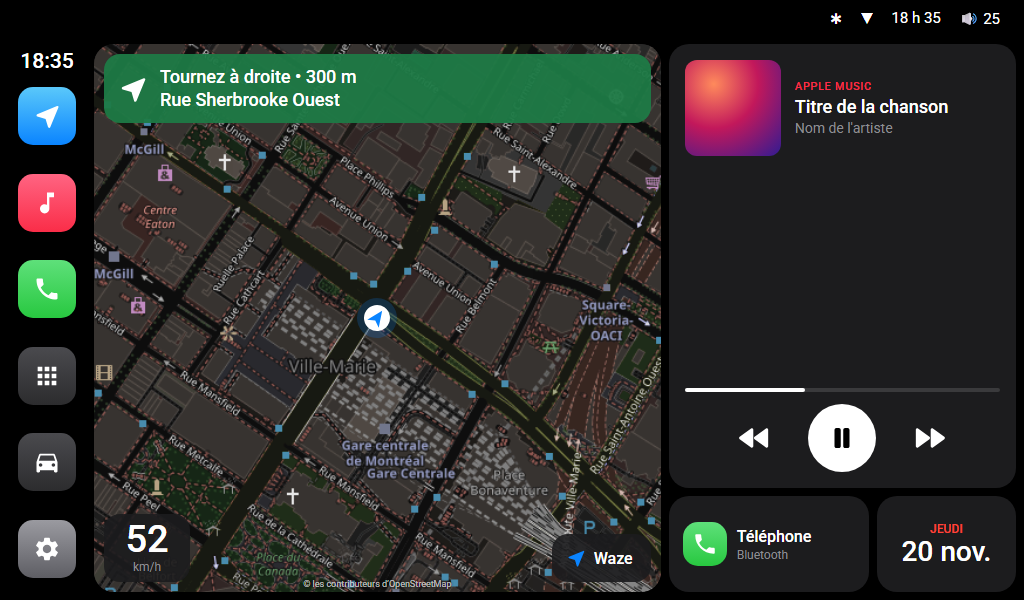
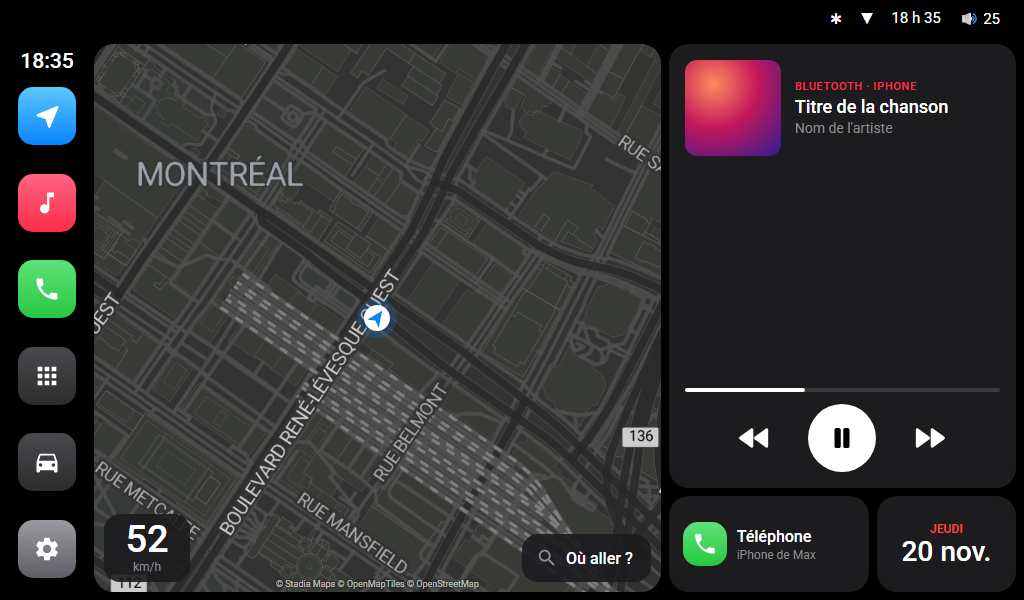
Maquettes : navigation, recherche, appel, téléphone

Changed region(s): [[0.0938, 0.06, 0.6562, 0.99], [0.7812, 0.12, 0.9062, 0.15], [0.7188, 0.9, 0.8125, 0.93]]

diff --git a/docs/preview/home.html b/docs/preview/home.html
@@ -100,6 +100,56 @@
   .icon { width: 62px; height: 62px; border-radius: 16px; display: flex; align-items: center; justify-content: center; font-size: 26px; font-weight: 500; color: #fff; }
   .app span { font-size: 13px; margin-top: 8px; }
 
+  /* ---- Navigation ---- */
+  .navbar { position: absolute; left: 106px; right: 10px; bottom: 10px; height: 56px; display: flex; align-items: center; gap: 6px; padding: 0 6px 0 16px; }
+  .navbar .eta { flex: 1; font-size: 16px; font-weight: 500; white-space: nowrap; overflow: hidden; text-overflow: ellipsis; }
+  .navbar .stop { background: #FF453A; border-radius: 22px; padding: 12px 16px; font-size: 15px; }
+  .searchpanel { position: absolute; inset: 0; background: rgba(28,28,30,.95); padding: 12px; }
+  .sbar { display: flex; gap: 8px; height: 52px; }
+  .sinput { flex: 1; background: #2C2C2E; border-radius: 14px; display: flex; align-items: center; gap: 10px; padding-left: 14px; font-size: 18px; }
+  .sinput svg { width: 22px; height: 22px; fill: #8E8E93; }
+  .caret { display: inline-block; width: 2px; height: 22px; background: #0A84FF; margin-left: 2px; vertical-align: middle; }
+  .sclose { width: 52px; border-radius: 50%; background: #2C2C2E; display: flex; align-items: center; justify-content: center; font-size: 20px; }
+  .shint { font-size: 12px; color: #8E8E93; text-transform: uppercase; padding: 12px 6px 4px; }
+  .place { height: 64px; display: flex; align-items: center; gap: 12px; padding: 0 6px; }
+  .place .pi { width: 40px; height: 40px; border-radius: 12px; background: linear-gradient(#5AC8FA, #0A84FF); display: flex; align-items: center; justify-content: center; flex: none; }
+  .place .pi svg { width: 22px; height: 22px; fill: #fff; }
+  .place .pn { font-size: 17px; font-weight: 500; }
+  .place .pl { font-size: 13px; color: #8E8E93; margin-top: 2px; white-space: nowrap; overflow: hidden; text-overflow: ellipsis; }
+  .place .chip { font-size: 14px; padding: 10px 12px; margin-left: auto; flex: none; }
+
+  /* ---- Appel ---- */
+  .call { background: #000; padding: 60px 24px 24px; }
+  .call .who, .call .ctl { flex: 1; display: flex; flex-direction: column; align-items: center; justify-content: center; }
+  .avatar { width: 132px; height: 132px; border-radius: 50%; background: linear-gradient(#8E8E93, #48484A); display: flex; align-items: center; justify-content: center; font-size: 54px; font-weight: 500; }
+  .call .cn { font-size: 34px; font-weight: 500; margin-top: 22px; }
+  .call .cnum { font-size: 18px; color: #8E8E93; margin-top: 4px; }
+  .call .cst { font-size: 20px; font-weight: 500; color: #30D158; margin-top: 10px; }
+  .round { border-radius: 50%; display: flex; align-items: center; justify-content: center; }
+  .round svg { fill: #fff; }
+  .clabel { font-size: 15px; color: #8E8E93; margin-top: 10px; text-align: center; }
+  .crow { display: flex; gap: 40px; align-items: flex-start; }
+
+  /* ---- Téléphone ---- */
+  .phonescr { background: #000; padding: 48px 20px 12px; flex-direction: column; }
+  .phonescr .head { height: 52px; display: flex; align-items: center; gap: 16px; }
+  .phonescr .head h1 { font-size: 24px; font-weight: 500; }
+  .phonescr .head .st { flex: 1; font-size: 14px; color: #8E8E93; }
+  .pcols { flex: 1; display: flex; gap: 12px; margin-top: 8px; min-height: 0; }
+  .pad { flex: 46; background: #1C1C1E; border-radius: 20px; padding: 12px; display: flex; flex-direction: column; align-items: center; }
+  .num { height: 52px; width: 100%; display: flex; align-items: center; justify-content: center; font-size: 30px; font-weight: 300; position: relative; }
+  .num .bs { position: absolute; right: 4px; width: 44px; height: 44px; display: flex; align-items: center; justify-content: center; }
+  .keys { display: grid; grid-template-columns: repeat(3, 62px); gap: 8px 22px; margin-top: 6px; }
+  .key { width: 62px; height: 62px; border-radius: 50%; background: #2C2C2E; display: flex; flex-direction: column; align-items: center; justify-content: center; font-size: 26px; line-height: 1; }
+  .key small { font-size: 9px; color: #8E8E93; letter-spacing: .08em; margin-top: 2px; }
+  .contacts { flex: 54; background: #1C1C1E; border-radius: 20px; padding: 12px; overflow: hidden; }
+  .crow2 { height: 64px; display: flex; align-items: center; gap: 12px; padding: 0 8px; }
+  .crow2 .av { width: 44px; height: 44px; border-radius: 50%; background: linear-gradient(#8E8E93, #48484A); display: flex; align-items: center; justify-content: center; font-size: 18px; font-weight: 500; flex: none; }
+  .crow2 .cn2 { font-size: 17px; font-weight: 500; }
+  .crow2 .cp { font-size: 13px; color: #8E8E93; margin-top: 2px; }
+  .crow2 .go { width: 40px; height: 40px; border-radius: 50%; background: #30D158; margin-left: auto; display: flex; align-items: center; justify-content: center; }
+  .crow2 .go svg { width: 22px; height: 22px; fill: #fff; }
+
   .plist { max-height: 380px; overflow: hidden; }
   .pitem { height: 60px; display: flex; align-items: center; gap: 14px; padding: 0 16px; }
   .pitem.sel { background: rgba(255,255,255,.08); border-radius: 12px; }
@@ -126,14 +176,28 @@
 
   <div class="map" id="map">
     <div class="tiles" id="tiles"></div>
-    <svg class="car" viewBox="0 0 44 44"><path fill="#330A84FF" d="M22,2a20,20 0,1 1,0 40a20,20 0,1 1,0 -40z" style="fill:rgba(10,132,255,.2)"/><path fill="#fff" d="M22,9a13,13 0,1 1,0 26a13,13 0,1 1,0 -26z"/><path fill="#0A84FF" d="M22,13l7,16l-7,-4l-7,4z"/></svg>
-    <div class="banner">
-      <svg viewBox="0 0 24 24"><path d="M21.71,3.71a1,1 0,0 0,-1.08 -0.22l-17,7a1,1 0,0 0,0.1 1.88l7.06,2.1 2.1,7.06a1,1 0,0 0,0.93 0.71h0.03a1,1 0,0 0,0.92 -0.62l7,-17a1,1 0,0 0,-0.06 -0.91z"/></svg>
-      <div class="t">Tournez à droite • 300 m<br>Rue Sherbrooke Ouest</div>
+    <svg id="routeSvg" style="position:absolute;inset:0;width:100%;height:100%;pointer-events:none"></svg>
+    <svg class="car" id="car" viewBox="0 0 44 44"><path d="M22,2a20,20 0,1 1,0 40a20,20 0,1 1,0 -40z" style="fill:rgba(10,132,255,.2)"/><path fill="#fff" d="M22,9a13,13 0,1 1,0 26a13,13 0,1 1,0 -26z"/><path fill="#0A84FF" d="M22,13l7,16l-7,-4l-7,4z"/></svg>
+    <div class="banner" id="navBanner" style="display:none">
+      <div style="display:flex;flex-direction:column;align-items:center;min-width:64px">
+        <svg id="navArrow" viewBox="0 0 24 24" style="width:44px;height:44px"><path d="M12,2.5l7,8.2h-4.6V21.5h-4.8V10.7H5z"/></svg>
+        <div style="font-size:18px;font-weight:500">300 m</div>
+      </div>
+      <div class="t" style="font-size:20px">Prenez la sortie 136 Est sur la gauche vers Autoroute Ville-Marie.</div>
     </div>
     <div class="overlay speed"><div class="v">52</div><div class="u">km/h</div></div>
-    <div class="overlay waze"><svg viewBox="0 0 24 24"><path d="M21.71,3.71a1,1 0,0 0,-1.08 -0.22l-17,7a1,1 0,0 0,0.1 1.88l7.06,2.1 2.1,7.06a1,1 0,0 0,0.93 0.71h0.03a1,1 0,0 0,0.92 -0.62l7,-17a1,1 0,0 0,-0.06 -0.91z"/></svg>Waze</div>
-    <div class="attrib">© les contributeurs d’OpenStreetMap</div>
+    <div class="overlay waze" id="searchBtn"><svg viewBox="0 0 24 24" style="fill:#8E8E93;width:22px;height:22px"><path d="M15.5,14h-0.79l-0.28,-0.27C15.41,12.59 16,11.11 16,9.5 16,5.91 13.09,3 9.5,3S3,5.91 3,9.5 5.91,16 9.5,16c1.61,0 3.09,-0.59 4.23,-1.57l0.27,0.28v0.79l5,4.99L20.49,19l-4.99,-5zM9.5,14C7.01,14 5,11.99 5,9.5S7.01,5 9.5,5 14,7.01 14,9.5 11.99,14 9.5,14z"/></svg>Où aller ?</div>
+    <div class="overlay navbar" id="navBar" style="display:none">
+      <div class="eta">Arrivée 18:43 · 8 min · 3,1 km</div>
+      <div class="chip" style="font-size:15px;padding:12px 14px">Waze</div>
+      <div class="stop">Arrêter</div>
+    </div>
+    <div class="searchpanel" id="searchPanel" style="display:none">
+      <div class="sbar"><div class="sinput"><svg viewBox="0 0 24 24"><path d="M15.5,14h-0.79l-0.28,-0.27C15.41,12.59 16,11.11 16,9.5 16,5.91 13.09,3 9.5,3S3,5.91 3,9.5 5.91,16 9.5,16c1.61,0 3.09,-0.59 4.23,-1.57l0.27,0.28v0.79l5,4.99L20.49,19l-4.99,-5zM9.5,14C7.01,14 5,11.99 5,9.5S7.01,5 9.5,5 14,7.01 14,9.5 11.99,14 9.5,14z"/></svg><span>Vieux-Port<i class="caret"></i></span></div><div class="sclose">✕</div></div>
+      <div class="shint">Résultats</div>
+      <div id="places"></div>
+    </div>
+    <div class="attrib" id="attrib">© les contributeurs d’OpenStreetMap</div>
   </div>
 
   <div class="right">
@@ -141,7 +205,7 @@
       <div class="track">
         <div class="art"></div>
         <div class="meta">
-          <div class="src">Apple Music</div>
+          <div class="src">Bluetooth · iPhone</div>
           <div class="title">Titre de la chanson</div>
           <div class="artist">Nom de l'artiste</div>
         </div>
@@ -157,7 +221,7 @@
     <div class="bottom">
       <div class="card phonecard">
         <div class="tile phone ic"><svg viewBox="0 0 24 24"><path d="M6.62,10.79c1.44,2.83 3.76,5.14 6.59,6.59l2.2,-2.2c0.27,-0.27 0.67,-0.36 1.02,-0.24 1.12,0.37 2.33,0.57 3.57,0.57 0.55,0 1,0.45 1,1V20c0,0.55 -0.45,1 -1,1 -9.39,0 -17,-7.61 -17,-17 0,-0.55 0.45,-1 1,-1h3.5c0.55,0 1,0.45 1,1 0,1.25 0.2,2.45 0.57,3.57 0.11,0.35 0.03,0.74 -0.25,1.02l-2.2,2.2z"/></svg></div>
-        <div><div class="n">Téléphone</div><div class="s">Bluetooth</div></div>
+        <div><div class="n">Téléphone</div><div class="s">iPhone de Max</div></div>
       </div>
       <div class="card date"><div class="d">Jeudi</div><div class="n">20 nov.</div></div>
     </div>
@@ -196,22 +260,108 @@
   <div class="head"><h1>Applications</h1><div class="chip" style="font-size:16px;padding:11px 20px">Accueil</div></div>
   <div class="grid" id="grid"></div>
 </div>
+<!-- Appel entrant (s'ouvre tout seul) -->
+<div class="screen call" id="s-call">
+  <div class="who"><div class="avatar">J</div><div class="cn">Julie</div><div class="cnum">514 555-0142</div><div class="cst">Appel entrant…</div></div>
+  <div class="ctl"><div class="crow" style="gap:72px">
+    <div><div class="round" style="width:96px;height:96px;background:#FF453A"><svg viewBox="0 0 24 24" style="width:40px;height:40px"><path d="M12,9c-1.6,0 -3.15,0.25 -4.6,0.72v3.1c0,0.39 -0.23,0.74 -0.56,0.9 -0.98,0.49 -1.87,1.12 -2.66,1.85 -0.18,0.18 -0.43,0.28 -0.7,0.28 -0.28,0 -0.53,-0.11 -0.71,-0.29L0.29,13.08c-0.18,-0.17 -0.29,-0.42 -0.29,-0.7 0,-0.28 0.11,-0.53 0.29,-0.71C3.34,8.78 7.46,7 12,7s8.66,1.78 11.71,4.67c0.18,0.18 0.29,0.43 0.29,0.71 0,0.28 -0.11,0.53 -0.29,0.71l-2.48,2.48c-0.18,0.18 -0.43,0.29 -0.71,0.29 -0.27,0 -0.52,-0.11 -0.7,-0.28 -0.79,-0.74 -1.69,-1.36 -2.67,-1.85 -0.33,-0.16 -0.56,-0.5 -0.56,-0.9v-3.1C15.15,9.25 13.6,9 12,9z"/></svg></div><div class="clabel">Refuser</div></div>
+    <div><div class="round" style="width:96px;height:96px;background:#30D158"><svg viewBox="0 0 24 24" style="width:36px;height:36px"><path d="M6.62,10.79c1.44,2.83 3.76,5.14 6.59,6.59l2.2,-2.2c0.27,-0.27 0.67,-0.36 1.02,-0.24 1.12,0.37 2.33,0.57 3.57,0.57 0.55,0 1,0.45 1,1V20c0,0.55 -0.45,1 -1,1 -9.39,0 -17,-7.61 -17,-17 0,-0.55 0.45,-1 1,-1h3.5c0.55,0 1,0.45 1,1 0,1.25 0.2,2.45 0.57,3.57 0.11,0.35 0.03,0.74 -0.25,1.02l-2.2,2.2z"/></svg></div><div class="clabel">Répondre</div></div>
+  </div></div>
+</div>
+
+<!-- En appel -->
+<div class="screen call" id="s-incall">
+  <div class="who"><div class="avatar">J</div><div class="cn">Julie</div><div class="cnum">514 555-0142</div><div class="cst">2:14</div></div>
+  <div class="ctl">
+    <div class="crow">
+      <div><div class="round" style="width:84px;height:84px;background:#2C2C2E"><svg viewBox="0 0 24 24" style="width:32px;height:32px"><path d="M12,19c-1.1,0 -2,0.9 -2,2s0.9,2 2,2 2,-0.9 2,-2 -0.9,-2 -2,-2zM6,1c-1.1,0 -2,0.9 -2,2s0.9,2 2,2 2,-0.9 2,-2 -0.9,-2 -2,-2zM6,7c-1.1,0 -2,0.9 -2,2s0.9,2 2,2 2,-0.9 2,-2 -0.9,-2 -2,-2zM6,13c-1.1,0 -2,0.9 -2,2s0.9,2 2,2 2,-0.9 2,-2 -0.9,-2 -2,-2zM18,5c1.1,0 2,-0.9 2,-2s-0.9,-2 -2,-2 -2,0.9 -2,2 0.9,2 2,2zM12,13c-1.1,0 -2,0.9 -2,2s0.9,2 2,2 2,-0.9 2,-2 -0.9,-2 -2,-2zM18,13c-1.1,0 -2,0.9 -2,2s0.9,2 2,2 2,-0.9 2,-2 -0.9,-2 -2,-2zM18,7c-1.1,0 -2,0.9 -2,2s0.9,2 2,2 2,-0.9 2,-2 -0.9,-2 -2,-2zM12,7c-1.1,0 -2,0.9 -2,2s0.9,2 2,2 2,-0.9 2,-2 -0.9,-2 -2,-2zM12,1c-1.1,0 -2,0.9 -2,2s0.9,2 2,2 2,-0.9 2,-2 -0.9,-2 -2,-2z"/></svg></div><div class="clabel">Clavier</div></div>
+      <div><div class="round" style="width:84px;height:84px;background:#2C2C2E"><svg viewBox="0 0 24 24" style="width:32px;height:32px"><path d="M17,1.01L7,1c-1.1,0 -2,0.9 -2,2v18c0,1.1 0.9,2 2,2h10c1.1,0 2,-0.9 2,-2V3c0,-1.1 -0.9,-1.99 -2,-1.99zM17,19H7V5h10v14z"/></svg></div><div class="clabel">Sur le téléphone</div></div>
+    </div>
+    <div class="round" style="width:96px;height:96px;background:#FF453A;margin-top:34px"><svg viewBox="0 0 24 24" style="width:40px;height:40px"><path d="M12,9c-1.6,0 -3.15,0.25 -4.6,0.72v3.1c0,0.39 -0.23,0.74 -0.56,0.9 -0.98,0.49 -1.87,1.12 -2.66,1.850 -0.18,0.18 -0.43,0.28 -0.7,0.28 -0.28,0 -0.53,-0.11 -0.71,-0.29L0.29,13.08c-0.18,-0.17 -0.29,-0.42 -0.29,-0.7 0,-0.28 0.11,-0.53 0.29,-0.71C3.34,8.78 7.46,7 12,7s8.66,1.78 11.71,4.67c0.18,0.18 0.29,0.43 0.29,0.71 0,0.28 -0.11,0.53 -0.29,0.71l-2.48,2.48c-0.18,0.18 -0.43,0.29 -0.71,0.29 -0.27,0 -0.52,-0.11 -0.7,-0.28 -0.79,-0.74 -1.69,-1.36 -2.67,-1.85 -0.33,-0.16 -0.56,-0.5 -0.56,-0.9v-3.1C15.15,9.25 13.6,9 12,9z"/></svg></div>
+  </div>
+</div>
+
+<!-- Écran Téléphone (bouton vert du dock) -->
+<div class="screen phonescr" id="s-phone">
+  <div class="head"><h1>Téléphone</h1><div class="st">Connecté à iPhone de Max</div><div class="chip" style="font-size:16px;padding:11px 20px">Accueil</div></div>
+  <div class="pcols">
+    <div class="pad">
+      <div class="num">514 555<span class="bs"><svg viewBox="0 0 24 24" style="width:28px;height:28px;fill:#fff"><path d="M22,3H7c-0.69,0 -1.23,0.35 -1.59,0.88L0,12l5.41,8.11c0.36,0.53 0.9,0.89 1.59,0.89h15c1.1,0 2,-0.9 2,-2V5c0,-1.1 -0.9,-2 -2,-2zM19,15.59L17.59,17 14,13.41 10.41,17 9,15.59 12.59,12 9,8.41 10.41,7 14,10.59 17.59,7 19,8.41 15.41,12 19,15.59z"/></svg></span></div>
+      <div class="keys" id="keys"></div>
+      <div class="round" style="width:68px;height:68px;background:#30D158;margin-top:10px"><svg viewBox="0 0 24 24" style="width:30px;height:30px"><path d="M6.62,10.79c1.44,2.83 3.76,5.14 6.59,6.59l2.2,-2.2c0.27,-0.27 0.67,-0.36 1.02,-0.24 1.12,0.37 2.33,0.57 3.57,0.57 0.55,0 1,0.45 1,1V20c0,0.55 -0.45,1 -1,1 -9.39,0 -17,-7.61 -17,-17 0,-0.55 0.45,-1 1,-1h3.5c0.55,0 1,0.45 1,1 0,1.25 0.2,2.45 0.57,3.57 0.11,0.35 0.03,0.74 -0.25,1.02l-2.2,2.2z"/></svg></div>
+    </div>
+    <div class="contacts">
+      <div class="sbar" style="height:48px"><div class="sinput" style="font-size:17px;color:#636366"><svg viewBox="0 0 24 24"><path d="M15.5,14h-0.79l-0.28,-0.27C15.41,12.59 16,11.11 16,9.5 16,5.91 13.09,3 9.5,3S3,5.91 3,9.5 5.91,16 9.5,16c1.61,0 3.09,-0.59 4.23,-1.57l0.27,0.28v0.79l5,4.99L20.49,19l-4.99,-5zM9.5,14C7.01,14 5,11.99 5,9.5S7.01,5 9.5,5 14,7.01 14,9.5 11.99,14 9.5,14z"/></svg>Rechercher un contact</div><div class="sclose" style="width:48px;color:#0A84FF">⟳</div></div>
+      <div id="clist" style="margin-top:8px"></div>
+    </div>
+  </div>
+</div>
+
+<script src="route.js"></script>
 <script>
-  // Vraies tuiles OpenStreetMap, filtre sombre identique à celui de l app (LiveMap), zoom 16, Montréal.
-  const z = 16, lat = 45.5017, lon = -73.5673, n = 2 ** z, T = 300;
-  const fx = (lon + 180) / 360 * n;
-  const r = lat * Math.PI / 180;
-  const fy = (1 - Math.log(Math.tan(r) + 1 / Math.cos(r)) / Math.PI) / 2 * n;
+  // Carte : tuiles Stadia « Alidade Smooth Dark » (comme l'app) si ?key=… est passé dans l'URL,
+  // sinon OpenStreetMap assombri (le repli de l'app). La clé n'est jamais écrite dans ce fichier.
+  const KEY = new URLSearchParams(location.search).get('key');
+  const which = location.hash.slice(1);
+  const nav = which === 'nav';
   const map = document.getElementById('map'), tiles = document.getElementById('tiles');
   const W = map.clientWidth, H = map.clientHeight;
-  const x0 = Math.floor(fx) - 1, y0 = Math.floor(fy) - 1;
-  for (let y = y0; y < y0 + 4; y++) for (let x = x0; x < x0 + 4; x++) {
+  const R = window.ROUTE || [];
+  const carPt = nav && R.length ? R[24] : [45.5017, -73.5673];
+  const z = nav ? 16 : 16, n = 2 ** z, T = KEY ? 384 : 300;
+  const proj = (la, lo) => {
+    const r = la * Math.PI / 180;
+    return [(lo + 180) / 360 * n, (1 - Math.log(Math.tan(r) + 1 / Math.cos(r)) / Math.PI) / 2 * n];
+  };
+  const [fx, fy] = proj(carPt[0], carPt[1]);
+  // En navigation, la voiture est un peu plus bas que le centre (on voit plus loin devant).
+  const cx = W / 2, cy = nav ? H * 0.62 : H / 2;
+  const x0 = Math.floor(fx - cx / T) - 1, y0 = Math.floor(fy - cy / T) - 1;
+  const cols = Math.ceil(W / T) + 3, rows = Math.ceil(H / T) + 3;
+  tiles.style.gridTemplateColumns = `repeat(${cols}, ${T}px)`;
+  if (KEY) { tiles.style.filter = 'none'; document.getElementById('attrib').textContent = '© Stadia Maps © OpenMapTiles © OpenStreetMap'; }
+  for (let y = y0; y < y0 + rows; y++) for (let x = x0; x < x0 + cols; x++) {
     const img = new Image();
-    img.src = `https://tile.openstreetmap.org/${z}/${x}/${y}.png`;
+    img.style.width = img.style.height = T + 'px';
+    img.src = KEY ? `https://tiles.stadiamaps.com/tiles/alidade_smooth_dark/${z}/${x}/${y}@2x.png?api_key=${KEY}`
+                  : `https://tile.openstreetmap.org/${z}/${x}/${y}.png`;
     tiles.appendChild(img);
   }
-  tiles.style.left = (W / 2 - (fx - x0) * T) + 'px';
-  tiles.style.top = (H / 2 - (fy - y0) * T) + 'px';
+  tiles.style.left = (cx - (fx - x0) * T) + 'px';
+  tiles.style.top = (cy - (fy - y0) * T) + 'px';
+  const car = document.getElementById('car');
+  car.style.top = cy + 'px';
+
+  if (nav && R.length) {
+    const toPx = (p) => { const [x, y] = proj(p[0], p[1]); return [cx + (x - fx) * T, cy + (y - fy) * T]; };
+    const pts = R.slice(24).map(p => toPx(p).map(v => v.toFixed(1)).join(',')).join(' ');
+    document.getElementById('routeSvg').innerHTML =
+      `<polyline points="${pts}" fill="none" stroke="#0A4F9E" stroke-width="16" stroke-linecap="round" stroke-linejoin="round"/>` +
+      `<polyline points="${pts}" fill="none" stroke="#0A84FF" stroke-width="10" stroke-linecap="round" stroke-linejoin="round"/>`;
+    const a = toPx(R[24]); let b = a; for (let j = 25; j < R.length; j++) { b = toPx(R[j]); if (Math.hypot(b[0] - a[0], b[1] - a[1]) > 25) break; }
+    car.style.transform = "translate(-50%,-50%) rotate(" + (Math.atan2(b[0] - a[0], a[1] - b[1]) * 180 / Math.PI + 180) % 360 + "deg)";
+    document.getElementById('navBanner').style.display = 'flex';
+    document.getElementById('navArrow').style.transform = 'rotate(-45deg)';
+    document.getElementById('navBar').style.display = 'flex';
+    document.getElementById('searchBtn').style.display = 'none';
+  } else {
+    car.style.transform = 'translate(-50%,-50%) rotate(35deg)';
+  }
+  if (which === 'search') document.getElementById('searchPanel').style.display = 'block';
+  const pin = '<svg viewBox="0 0 24 24"><path d="M21.71,3.71a1,1 0,0 0,-1.08 -0.22l-17,7a1,1 0,0 0,0.1 1.88l7.06,2.1 2.1,7.06a1,1 0,0 0,0.93 0.71h0.03a1,1 0,0 0,0.92 -0.62l7,-17a1,1 0,0 0,-0.06 -0.91z"/></svg>';
+  document.getElementById('places').innerHTML = [
+    ['Vieux-Port de Montréal', '2,1 km · Rue de la Commune E, Montréal, QC'],
+    ['Place Jacques-Cartier', '2,4 km · Montréal, QC'],
+    ['Marché Bonsecours', '2,6 km · 350 Rue Saint-Paul E, Montréal, QC'],
+    ['Vieux-Port, Québec', '251 km · Québec, QC'],
+  ].map(p => `<div class="place"><div class="pi">${pin}</div><div style="min-width:0"><div class="pn">${p[0]}</div><div class="pl">${p[1]}</div></div><div class="chip">Waze</div></div>`).join('');
+
+  // Clavier + contacts (écran Téléphone)
+  document.getElementById('keys').innerHTML = [['1',''],['2','ABC'],['3','DEF'],['4','GHI'],['5','JKL'],['6','MNO'],['7','PQRS'],['8','TUV'],['9','WXYZ'],['*',''],['0','+'],['#','']]
+    .map(k => `<div class="key">${k[0]}${k[1] ? `<small>${k[1]}</small>` : ''}</div>`).join('');
+  const phoneIc = '<svg viewBox="0 0 24 24"><path d="M6.62,10.79c1.44,2.83 3.76,5.14 6.59,6.59l2.2,-2.2c0.27,-0.27 0.67,-0.36 1.02,-0.24 1.12,0.37 2.33,0.57 3.57,0.57 0.55,0 1,0.45 1,1V20c0,0.55 -0.45,1 -1,1 -9.39,0 -17,-7.61 -17,-17 0,-0.55 0.45,-1 1,-1h3.5c0.55,0 1,0.45 1,1 0,1.25 0.2,2.45 0.57,3.57 0.11,0.35 0.03,0.74 -0.25,1.02l-2.2,2.2z"/></svg>';
+  document.getElementById('clist').innerHTML = [['Alex', '514 555-0101'], ['Garage', '450 555-0177'], ['Julie', '514 555-0142'], ['Maman', '418 555-0190'], ['Pizza', '514 555-0123'], ['Sam', '438 555-0168']]
+    .map(c => `<div class="crow2"><div class="av">${c[0][0]}</div><div><div class="cn2">${c[0]}</div><div class="cp">${c[1]}</div></div><div class="go">${phoneIc}</div></div>`).join('');
 
   // Apps fictives (icônes génériques) pour le tiroir et le sélecteur.
   const apps = [
@@ -229,11 +379,10 @@
   document.getElementById('plist').innerHTML = apps.slice(0, 6).map((a, i) =>
     `<div class="pitem${i === 0 ? ' sel' : ''}">${ic(a)}<div><div class="n">${a[0]}</div><div class="p">${a[2]}</div></div></div>`).join('');
 
-  const which = location.hash.slice(1);
   const scr = document.getElementById('s-' + which);
   if (scr) {
-    scr.style.display = 'block';
-    if (which === 'drawer') document.getElementById('home').style.visibility = 'hidden';
+    scr.style.display = scr.classList.contains('call') || scr.classList.contains('phonescr') ? 'flex' : 'block';
+    if (['drawer', 'call', 'incall', 'phone'].includes(which)) document.getElementById('home').style.visibility = 'hidden';
   }
 </script>
 </body>

diff --git a/docs/preview/route.js b/docs/preview/route.js
@@ -1,0 +1,1 @@
+window.ROUTE = [[45.498908,-73.570592],[45.499054,-73.570888],[45.499256,-73.571311],[45.499355,-73.571516],[45.499375,-73.571554],[45.49941,-73.571625],[45.499436,-73.571678],[45.499455,-73.571716],[45.499509,-73.571825],[45.499605,-73.572026],[45.49963,-73.572079],[45.499697,-73.572014],[45.499914,-73.571802],[45.500054,-73.571664],[45.500249,-73.571476],[45.50027,-73.571455],[45.500321,-73.571405],[45.50029,-73.571342],[45.500257,-73.571276],[45.500221,-73.571202],[45.500195,-73.57115],[45.500145,-73.571049],[45.499943,-73.57063],[45.499746,-73.570223],[45.499583,-73.569888],[45.499547,-73.569814],[45.499529,-73.569788],[45.499521,-73.56978],[45.499512,-73.569773],[45.499457,-73.569734],[45.499334,-73.569664],[45.499289,-73.569638],[45.499275,-73.569628],[45.499261,-73.569613],[45.499249,-73.569595],[45.499237,-73.569574],[45.499192,-73.569483],[45.499092,-73.569285],[45.498894,-73.568879],[45.498876,-73.568841],[45.498717,-73.568512],[45.498589,-73.568248],[45.498506,-73.568078],[45.498306,-73.567665],[45.49822,-73.567487],[45.498207,-73.567458],[45.49816,-73.567361],[45.498112,-73.56726],[45.498071,-73.567171],[45.497912,-73.56684],[45.497778,-73.566578],[45.497744,-73.56651],[45.497675,-73.566367],[45.497648,-73.566312],[45.497588,-73.56619],[45.497573,-73.566158],[45.497518,-73.566025],[45.497487,-73.565952],[45.497465,-73.565906],[45.497085,-73.565103],[45.496954,-73.564824],[45.49694,-73.564797],[45.496895,-73.564702],[45.496836,-73.564575],[45.496625,-73.56415],[45.496584,-73.564066],[45.496549,-73.563796],[45.496539,-73.563711],[45.496534,-73.563661],[45.496531,-73.563599],[45.496535,-73.563536],[45.496539,-73.563487],[45.496547,-73.563444],[45.496556,-73.563397],[45.496572,-73.563332],[45.496587,-73.563286],[45.496606,-73.563239],[45.496625,-73.563195],[45.496653,-73.563143],[45.496685,-73.563092],[45.496722,-73.563049],[45.49677,-73.56299],[45.497146,-73.562595],[45.497235,-73.562512],[45.497435,-73.562327],[45.497507,-73.562273],[45.49758,-73.562229],[45.497654,-73.562191],[45.497743,-73.562154],[45.497863,-73.562118],[45.497935,-73.562101],[45.497999,-73.562088],[45.498111,-73.562077],[45.498202,-73.56208],[45.498283,-73.562091],[45.498359,-73.56211],[45.498444,-73.562137],[45.498532,-73.562168],[45.498603,-73.562195],[45.498661,-73.56222],[45.498713,-73.562244],[45.49876,-73.562269],[45.49881,-73.562299],[45.498858,-73.562331],[45.498898,-73.56236],[45.498931,-73.562388],[45.498966,-73.56242],[45.498998,-73.56245],[45.49905,-73.5625],[45.499339,-73.562809],[45.499377,-73.562848],[45.499429,-73.562903],[45.499491,-73.562956],[45.499538,-73.562992],[45.499581,-73.563024],[45.499623,-73.563052],[45.499668,-73.563079],[45.49972,-73.563106],[45.49979,-73.563138],[45.499871,-73.563172],[45.499941,-73.563198],[45.500002,-73.563219],[45.500061,-73.563238],[45.500116,-73.563253],[45.50016,-73.563265],[45.500198,-73.563272],[45.500239,-73.563278],[45.500277,-73.563283],[45.500329,-73.563286],[45.500385,-73.563283],[45.500506,-73.563275],[45.500712,-73.563244],[45.500924,-73.563193],[45.501059,-73.563162],[45.501202,-73.563117],[45.501632,-73.562959],[45.50169,-73.562921],[45.501747,-73.562876],[45.501886,-73.562754],[45.506228,-73.558994],[45.506523,-73.558713],[45.507066,-73.558266],[45.508467,-73.556909],[45.508937,-73.556503],[45.509131,-73.556337],[45.50927,-73.556213],[45.509321,-73.556168],[45.509375,-73.556118],[45.509403,-73.556089],[45.509439,-73.556051],[45.509465,-73.55602],[45.509496,-73.55598],[45.509522,-73.555945],[45.509552,-73.555901],[45.509581,-73.555857],[45.5096,-73.555827],[45.509615,-73.555801],[45.509627,-73.555778],[45.509641,-73.555752],[45.509655,-73.555725],[45.50967,-73.555693],[45.509687,-73.555655],[45.5097,-73.555622],[45.509717,-73.55558],[45.509734,-73.555536],[45.509748,-73.555499],[45.509764,-73.555457],[45.509779,-73.555419],[45.509793,-73.555383],[45.509808,-73.555349],[45.509825,-73.555313],[45.50984,-73.555285],[45.509863,-73.555242],[45.509889,-73.555202],[45.509915,-73.555161],[45.509941,-73.555122],[45.509961,-73.555097],[45.509983,-73.555074],[45.510006,-73.555051],[45.510028,-73.55503],[45.510054,-73.555006],[45.510081,-73.554983],[45.510204,-73.554872],[45.510529,-73.554701],[45.510764,-73.554577],[45.510904,-73.554495],[45.51095,-73.554467],[45.510998,-73.55444],[45.511034,-73.55442],[45.511311,-73.554259],[45.511544,-73.554124],[45.51197,-73.553886],[45.512002,-73.553872],[45.51203,-73.553855],[45.5121,-73.553815],[45.512073,-73.553722],[45.51206,-73.553668],[45.512039,-73.553575],[45.512007,-73.553454],[45.511975,-73.553353],[45.511945,-73.553275],[45.511844,-73.553048],[45.511811,-73.552949],[45.511683,-73.552523],[45.511501,-73.551894],[45.511486,-73.551848],[45.511428,-73.551642],[45.511365,-73.551428],[45.511315,-73.551231],[45.511283,-73.551088],[45.511268,-73.55101],[45.511215,-73.550731],[45.511191,-73.550605],[45.511143,-73.550415],[45.51108,-73.550146],[45.511055,-73.550045],[45.510976,-73.550077],[45.510945,-73.550095],[45.510286,-73.55044],[45.50982,-73.550685],[45.509718,-73.550741],[45.509602,-73.550806],[45.509553,-73.550833],[45.508146,-73.55162],[45.508115,-73.551637],[45.508073,-73.551661],[45.507578,-73.551942],[45.507548,-73.551956],[45.507574,-73.552034],[45.507718,-73.552409],[45.507696,-73.55242],[45.507566,-73.552482],[45.507544,-73.552493],[45.507519,-73.552504],[45.507397,-73.552562]];

diff --git a/README.md b/README.md
@@ -20,4 +20,4 @@ Launcher Android natif ultra-léger conçu spécifiquement pour les autoradios c
 5. Copiez `CarLauncherFYT.apk` sur une clé USB, installez-le sur l'autoradio et sélectionnez **CarLauncher FYT** comme application d'accueil par défaut dans *Paramètres Android > Applications > Applications par défaut > Application d'accueil*.
 
 ## Aperçu
-Maquettes 1024x600 : `docs/preview/` (`home.png`, `drawer.png`, `settings.png`, `picker.png`). Source : `docs/preview/home.html` (ouvrir avec `#drawer`, `#settings` ou `#picker`).
+Maquettes 1024x600 dans `docs/preview/` : accueil, navigation, recherche, appel entrant, en appel, téléphone, réglages, sélecteur, tiroir. Source `docs/preview/home.html` (ajouter `#nav`, `#phone`, etc. ; `?key=CLE_STADIA` pour la carte Stadia).
